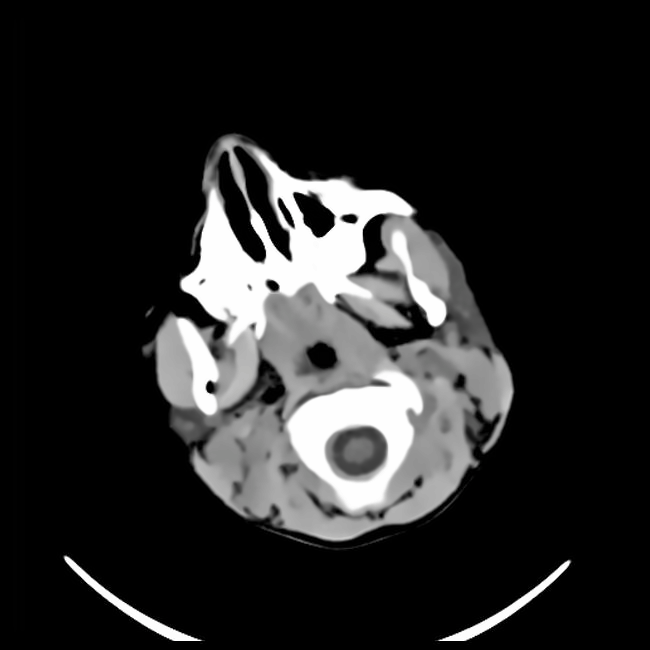
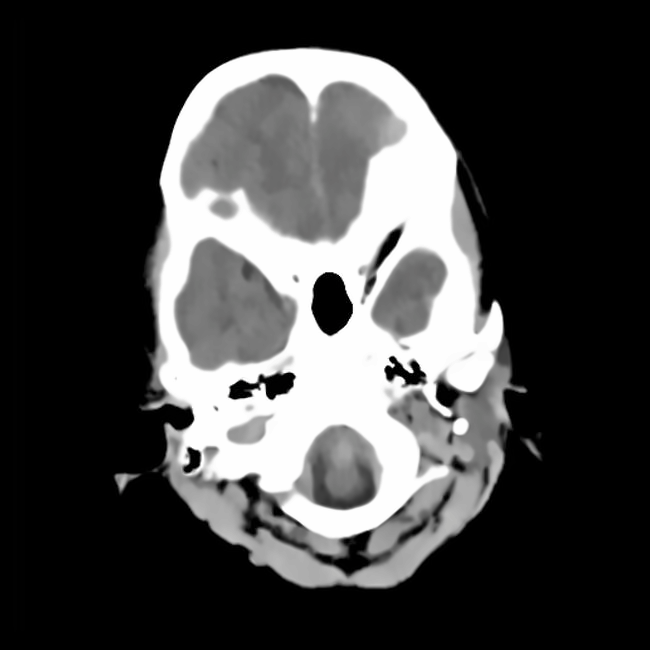
Updated...

diff --git a/templates/UDrugsInfo.html b/templates/UDrugsInfo.html
@@ -12011,12 +12011,12 @@ section.w3l-grid-quote h3 {
               <tr>
 
 
-                <td bgcolor="#3399FF"><div align="center" class="style5"><strong>UserName</strong></div></td>
+                <td bgcolor="#3399FF"><div align="center" class="style5"><strong>Username</strong></div></td>
                 <td bgcolor="#3399FF"><div align="center" class="style5"><strong>Phone</strong></div></td>
                 <td bgcolor="#3399FF"><div align="center" class="style5"><strong>Email Id</strong></div></td>
                 <td bgcolor="#3399FF"><div align="center" class="style5"><strong>Doctor Name</strong></div></td>
-                <td bgcolor="#3399FF"><div align="center" class="style5"><strong>Medicine</strong></div></td>
-                   <td bgcolor="#3399FF"><div align="center" class="style5"><strong>Info</strong></div></td>
+                <td bgcolor="#3399FF"><div align="center" class="style5"><strong>Medicine Info</strong></div></td>
+                   <td bgcolor="#3399FF"><div align="center" class="style5"><strong>Other Info</strong></div></td>
                    <td bgcolor="#3399FF"><div align="center" class="style5"><strong>Date</strong></div></td>
                    <td bgcolor="#3399FF"><div align="center" class="style5"><strong>Download</strong></div></td>
 

diff --git a/templates/ADrugInfo.html b/templates/ADrugInfo.html
@@ -12014,8 +12014,8 @@ section.w3l-grid-quote h3 {
                 <td bgcolor="#3399FF"><div align="center" class="style5"><strong>Mobile</strong></div></td>
                 <td bgcolor="#3399FF"><div align="center" class="style5"><strong>Email Id</strong></div></td>
                 <td bgcolor="#3399FF"><div align="center" class="style5"><strong>Doctor Name</strong></div></td>
-                <td bgcolor="#3399FF"><div align="center" class="style5"><strong>Medicine</strong></div></td>
-                   <td bgcolor="#3399FF"><div align="center" class="style5"><strong>Info</strong></div></td>
+                <td bgcolor="#3399FF"><div align="center" class="style5"><strong>Medicine Info</strong></div></td>
+                   <td bgcolor="#3399FF"><div align="center" class="style5"><strong>Other Info</strong></div></td>
                    <td bgcolor="#3399FF"><div align="center" class="style5"><strong>Date</strong></div></td>
                    <td bgcolor="#3399FF"><div align="center" class="style5"><strong>Download</strong></div></td>
 

diff --git a/templates/DrugsInfo.html b/templates/DrugsInfo.html
@@ -11977,8 +11977,8 @@ section.w3l-grid-quote h3 {
                 <td bgcolor="#3399FF"><div align="center" class="style5"><strong>Username</strong></div></td>
                 <td bgcolor="#3399FF"><div align="center" class="style5"><strong>Phone</strong></div></td>
                 <td bgcolor="#3399FF"><div align="center" class="style5"><strong>Doctor Name</strong></div></td>
-                <td bgcolor="#3399FF"><div align="center" class="style5"><strong>Medicine</strong></div></td>
-                   <td bgcolor="#3399FF"><div align="center" class="style5"><strong>Info</strong></div></td>
+                <td bgcolor="#3399FF"><div align="center" class="style5"><strong>Medicine Info</strong></div></td>
+                   <td bgcolor="#3399FF"><div align="center" class="style5"><strong>Other Info</strong></div></td>
                    <td bgcolor="#3399FF"><div align="center" class="style5"><strong>Date</strong></div></td>
                    <td bgcolor="#3399FF"><div align="center" class="style5"><strong>Download</strong></div></td>
 
